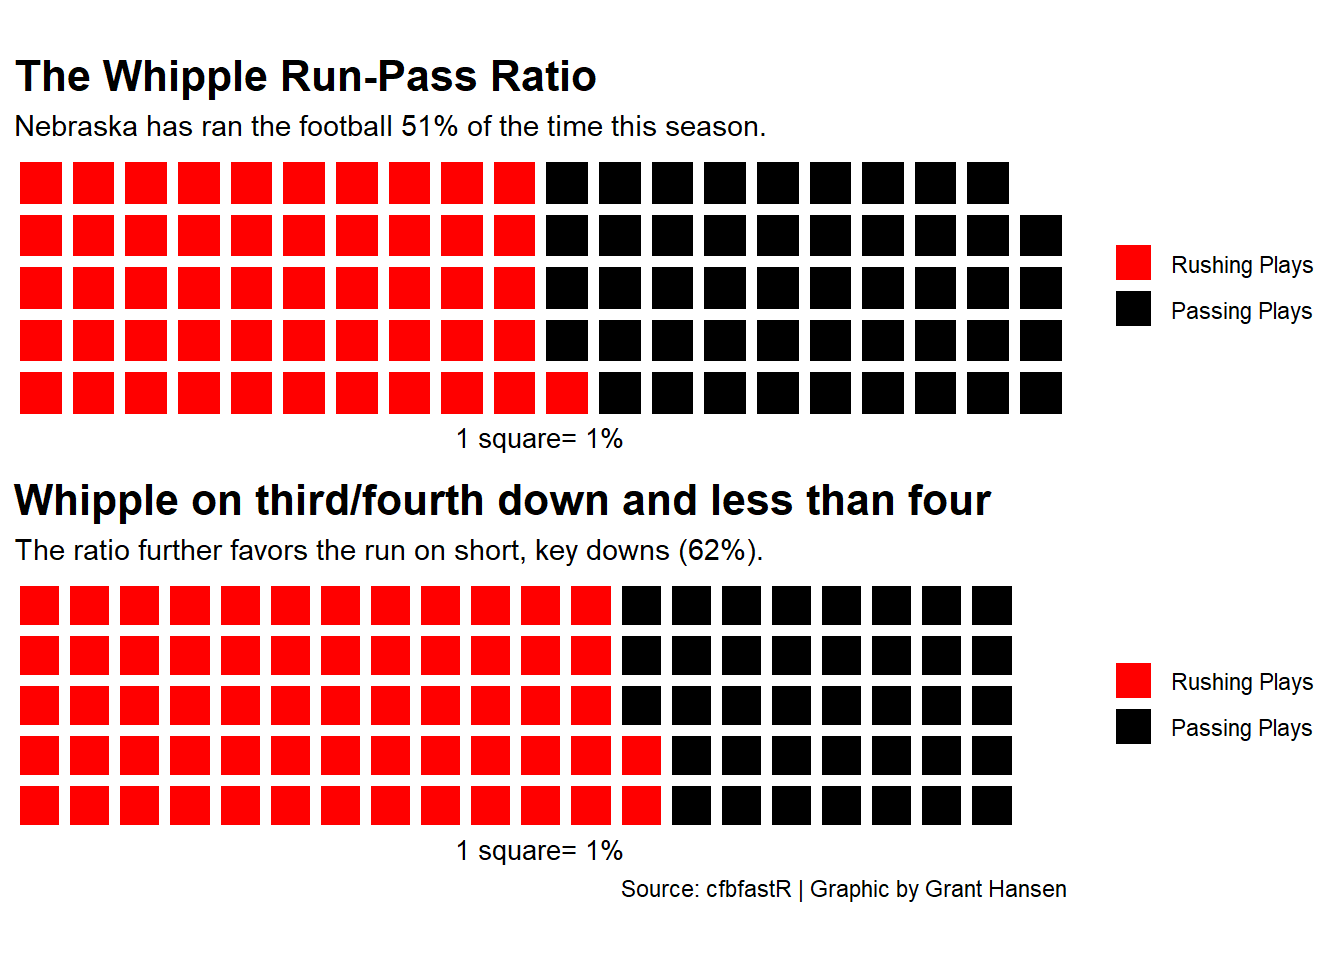
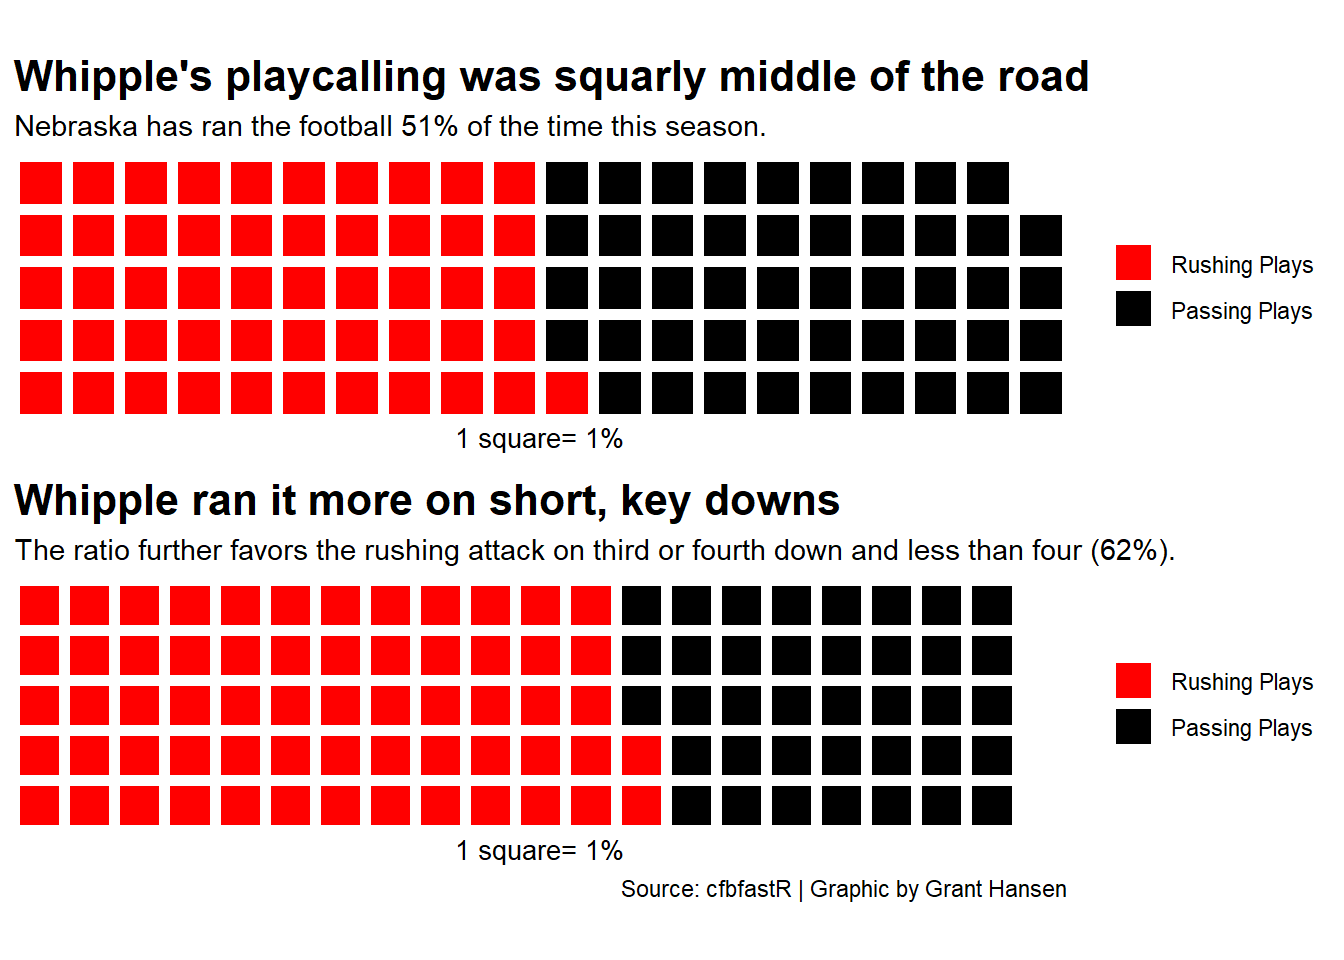
Project 2 (1.1)

Changed region(s): [[0.125, 0.5, 0.875, 0.5938], [0.0, 0.0625, 0.8125, 0.125]]

diff --git a/posts/whipples-world-analyzing-nebraskas-2022-playcalling/index.html b/posts/whipples-world-analyzing-nebraskas-2022-playcalling/index.html
@@ -256,7 +256,7 @@ code span.wa { color: #60a0b0; font-weight: bold; font-style: italic; } /* Warni
 <span id="cb1-44"><a href="#cb1-44" aria-hidden="true" tabindex="-1"></a>  <span class="at">colors =</span> <span class="fu">c</span>(<span class="st">"red"</span>, <span class="st">"black"</span>)) <span class="sc">+</span></span>
 <span id="cb1-45"><a href="#cb1-45" aria-hidden="true" tabindex="-1"></a>  <span class="fu">labs</span>(</span>
 <span id="cb1-46"><a href="#cb1-46" aria-hidden="true" tabindex="-1"></a>    <span class="at">x=</span> <span class="st">"1 square= 1%"</span>,</span>
-<span id="cb1-47"><a href="#cb1-47" aria-hidden="true" tabindex="-1"></a>    <span class="at">title =</span> <span class="st">"The Whipple Run-Pass Ratio"</span>,</span>
+<span id="cb1-47"><a href="#cb1-47" aria-hidden="true" tabindex="-1"></a>    <span class="at">title =</span> <span class="st">"Whipple's playcalling was squarly middle of the road"</span>,</span>
 <span id="cb1-48"><a href="#cb1-48" aria-hidden="true" tabindex="-1"></a>    <span class="at">subtitle =</span> <span class="st">"Nebraska has ran the football 51% of the time this season."</span>) <span class="sc">+</span></span>
 <span id="cb1-49"><a href="#cb1-49" aria-hidden="true" tabindex="-1"></a>  <span class="fu">theme</span>(</span>
 <span id="cb1-50"><a href="#cb1-50" aria-hidden="true" tabindex="-1"></a>    <span class="at">plot.title =</span> <span class="fu">element_text</span>(<span class="at">size =</span> <span class="dv">16</span>, <span class="at">face =</span> <span class="st">"bold"</span>),</span>
@@ -270,8 +270,8 @@ code span.wa { color: #60a0b0; font-weight: bold; font-style: italic; } /* Warni
 <span id="cb1-58"><a href="#cb1-58" aria-hidden="true" tabindex="-1"></a>  <span class="at">colors=</span> <span class="fu">c</span>(<span class="st">"red"</span>, <span class="st">"black"</span>)) <span class="sc">+</span></span>
 <span id="cb1-59"><a href="#cb1-59" aria-hidden="true" tabindex="-1"></a>    <span class="fu">labs</span>(</span>
 <span id="cb1-60"><a href="#cb1-60" aria-hidden="true" tabindex="-1"></a>    <span class="at">x=</span> <span class="st">"1 square= 1%"</span>,</span>
-<span id="cb1-61"><a href="#cb1-61" aria-hidden="true" tabindex="-1"></a>   <span class="at">title =</span> <span class="st">"Whipple on third/fourth down and less than four"</span>,</span>
-<span id="cb1-62"><a href="#cb1-62" aria-hidden="true" tabindex="-1"></a>    <span class="at">subtitle =</span> <span class="st">"The ratio further favors the run on short, key downs (62%)."</span>,</span>
+<span id="cb1-61"><a href="#cb1-61" aria-hidden="true" tabindex="-1"></a>   <span class="at">title =</span> <span class="st">"Whipple ran it more on short, key downs"</span>,</span>
+<span id="cb1-62"><a href="#cb1-62" aria-hidden="true" tabindex="-1"></a>    <span class="at">subtitle =</span> <span class="st">"The ratio further favors the rushing attack on third or fourth down and less than four (62%)."</span>,</span>
 <span id="cb1-63"><a href="#cb1-63" aria-hidden="true" tabindex="-1"></a>      <span class="at">caption=</span><span class="st">"Source: cfbfastR | Graphic by Grant Hansen"</span>) <span class="sc">+</span></span>
 <span id="cb1-64"><a href="#cb1-64" aria-hidden="true" tabindex="-1"></a>  <span class="fu">theme</span>(</span>
 <span id="cb1-65"><a href="#cb1-65" aria-hidden="true" tabindex="-1"></a>    <span class="at">plot.title =</span> <span class="fu">element_text</span>(<span class="at">size =</span> <span class="dv">16</span>, <span class="at">face =</span> <span class="st">"bold"</span>),</span>
@@ -322,8 +322,8 @@ code span.wa { color: #60a0b0; font-weight: bold; font-style: italic; } /* Warni
 <span id="cb2-33"><a href="#cb2-33" aria-hidden="true" tabindex="-1"></a>  <span class="at">colors =</span> <span class="fu">c</span>(<span class="st">"blue"</span>, <span class="st">"grey"</span>)) <span class="sc">+</span></span>
 <span id="cb2-34"><a href="#cb2-34" aria-hidden="true" tabindex="-1"></a>  <span class="fu">labs</span>(</span>
 <span id="cb2-35"><a href="#cb2-35" aria-hidden="true" tabindex="-1"></a>    <span class="at">x=</span> <span class="st">"1 square= 1%"</span>,</span>
-<span id="cb2-36"><a href="#cb2-36" aria-hidden="true" tabindex="-1"></a>    <span class="at">title =</span> <span class="st">"The Big Ten Run-Pass Ratio"</span>,</span>
-<span id="cb2-37"><a href="#cb2-37" aria-hidden="true" tabindex="-1"></a>    <span class="at">subtitle =</span> <span class="st">"Whipple is spot on with the rest of his Big Ten collegues."</span>) <span class="sc">+</span></span>
+<span id="cb2-36"><a href="#cb2-36" aria-hidden="true" tabindex="-1"></a>    <span class="at">title =</span> <span class="st">"The Big Ten also found itself in balence"</span>,</span>
+<span id="cb2-37"><a href="#cb2-37" aria-hidden="true" tabindex="-1"></a>    <span class="at">subtitle =</span> <span class="st">"Whipple is spot on with the rest of his Big Ten collegues (51% run)."</span>) <span class="sc">+</span></span>
 <span id="cb2-38"><a href="#cb2-38" aria-hidden="true" tabindex="-1"></a>  <span class="fu">theme</span>(</span>
 <span id="cb2-39"><a href="#cb2-39" aria-hidden="true" tabindex="-1"></a>    <span class="at">plot.title =</span> <span class="fu">element_text</span>(<span class="at">size =</span> <span class="dv">16</span>, <span class="at">face =</span> <span class="st">"bold"</span>),</span>
 <span id="cb2-40"><a href="#cb2-40" aria-hidden="true" tabindex="-1"></a>    <span class="at">axis.title =</span> <span class="fu">element_text</span>(<span class="at">size =</span> <span class="dv">10</span>),</span>
@@ -336,7 +336,7 @@ code span.wa { color: #60a0b0; font-weight: bold; font-style: italic; } /* Warni
 <span id="cb2-47"><a href="#cb2-47" aria-hidden="true" tabindex="-1"></a>  <span class="at">colors=</span> <span class="fu">c</span>(<span class="st">"blue"</span>, <span class="st">"grey"</span>)) <span class="sc">+</span></span>
 <span id="cb2-48"><a href="#cb2-48" aria-hidden="true" tabindex="-1"></a>    <span class="fu">labs</span>(</span>
 <span id="cb2-49"><a href="#cb2-49" aria-hidden="true" tabindex="-1"></a>    <span class="at">x=</span> <span class="st">"1 square= 1%"</span>,</span>
-<span id="cb2-50"><a href="#cb2-50" aria-hidden="true" tabindex="-1"></a>   <span class="at">title =</span> <span class="st">"The Big Ten on third or fourth down and less than four"</span>,</span>
+<span id="cb2-50"><a href="#cb2-50" aria-hidden="true" tabindex="-1"></a>   <span class="at">title =</span> <span class="st">"The Big Ten keeps it conservative on key downs"</span>,</span>
 <span id="cb2-51"><a href="#cb2-51" aria-hidden="true" tabindex="-1"></a>    <span class="at">subtitle =</span> <span class="st">"This is where Whipple breaks from the crowd. The rest of the conference</span><span class="sc">\n</span><span class="st"> runs it here nearly 75% of the time."</span>,</span>
 <span id="cb2-52"><a href="#cb2-52" aria-hidden="true" tabindex="-1"></a>      <span class="at">caption=</span><span class="st">"Source: cfbfastR | Graphic by Grant Hansen"</span>) <span class="sc">+</span></span>
 <span id="cb2-53"><a href="#cb2-53" aria-hidden="true" tabindex="-1"></a>  <span class="fu">theme</span>(</span>

diff --git a/index.html b/index.html
@@ -164,7 +164,7 @@ ul.task-list li input[type="checkbox"] {
 
 <div class="quarto-listing quarto-listing-container-default" id="listing-listing">
 <div class="list quarto-listing-default">
-<div class="quarto-post image-right" data-index="0" data-categories="huskers,code,analysis" data-listing-date-sort="1670220000000" data-listing-file-modified-sort="1669995497909" data-listing-reading-time-sort="5.41">
+<div class="quarto-post image-right" data-index="0" data-categories="huskers,code,analysis" data-listing-date-sort="1670220000000" data-listing-file-modified-sort="1669997368679" data-listing-reading-time-sort="5.47">
 <div class="thumbnail">
 <p><a href="./posts/whipples-world-analyzing-nebraskas-2022-playcalling/index.html"> <img src="./posts/whipples-world-analyzing-nebraskas-2022-playcalling/image.png" class="thumnail-image"> </a></p>
 </div>
